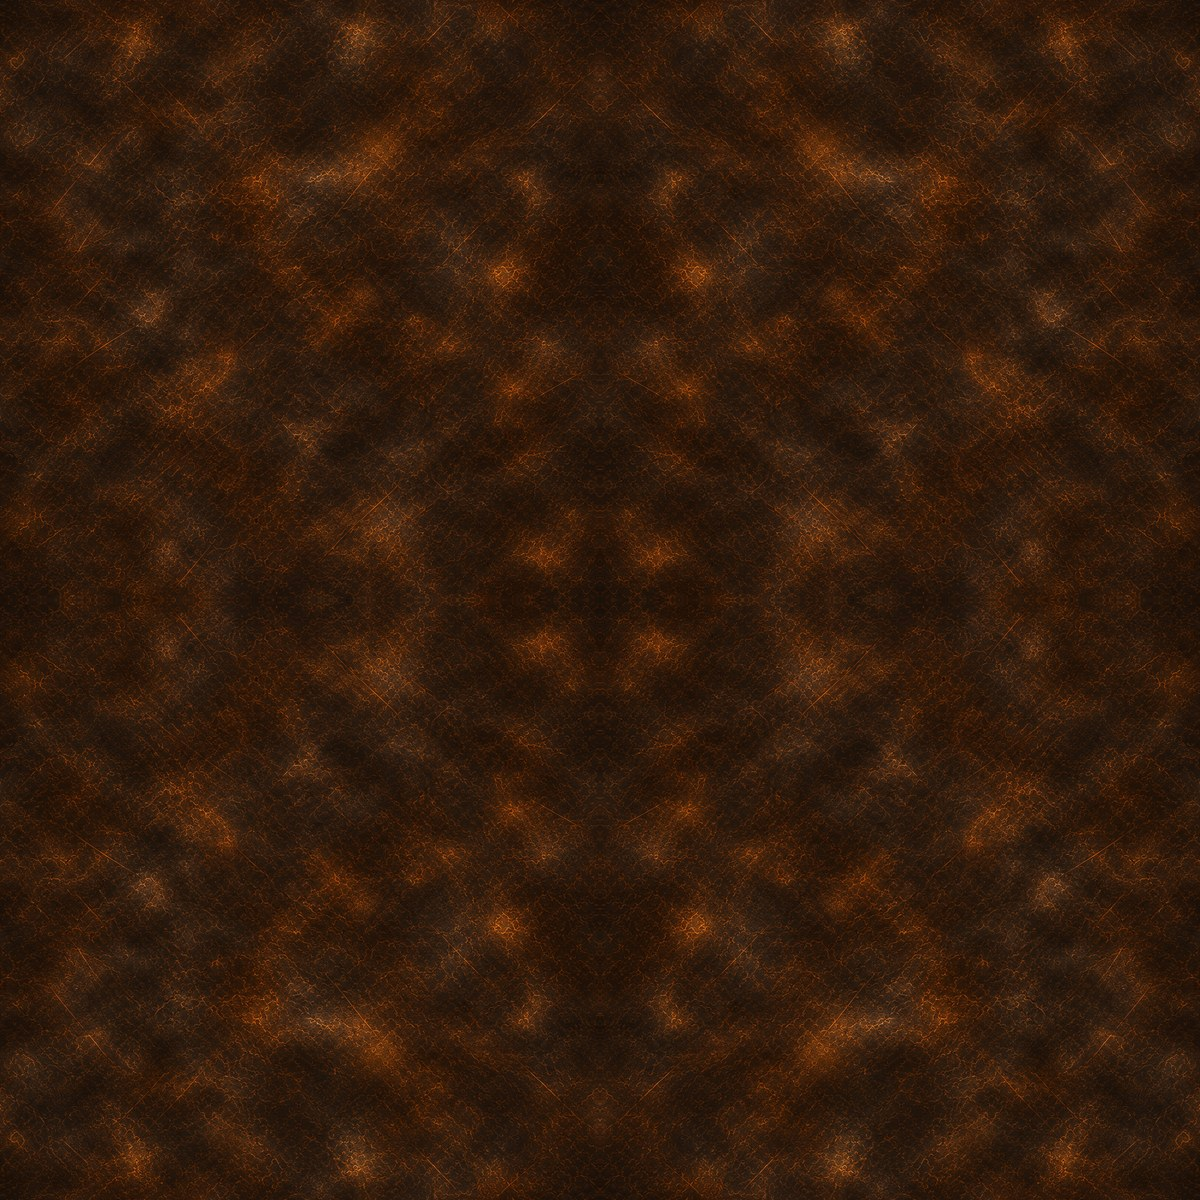
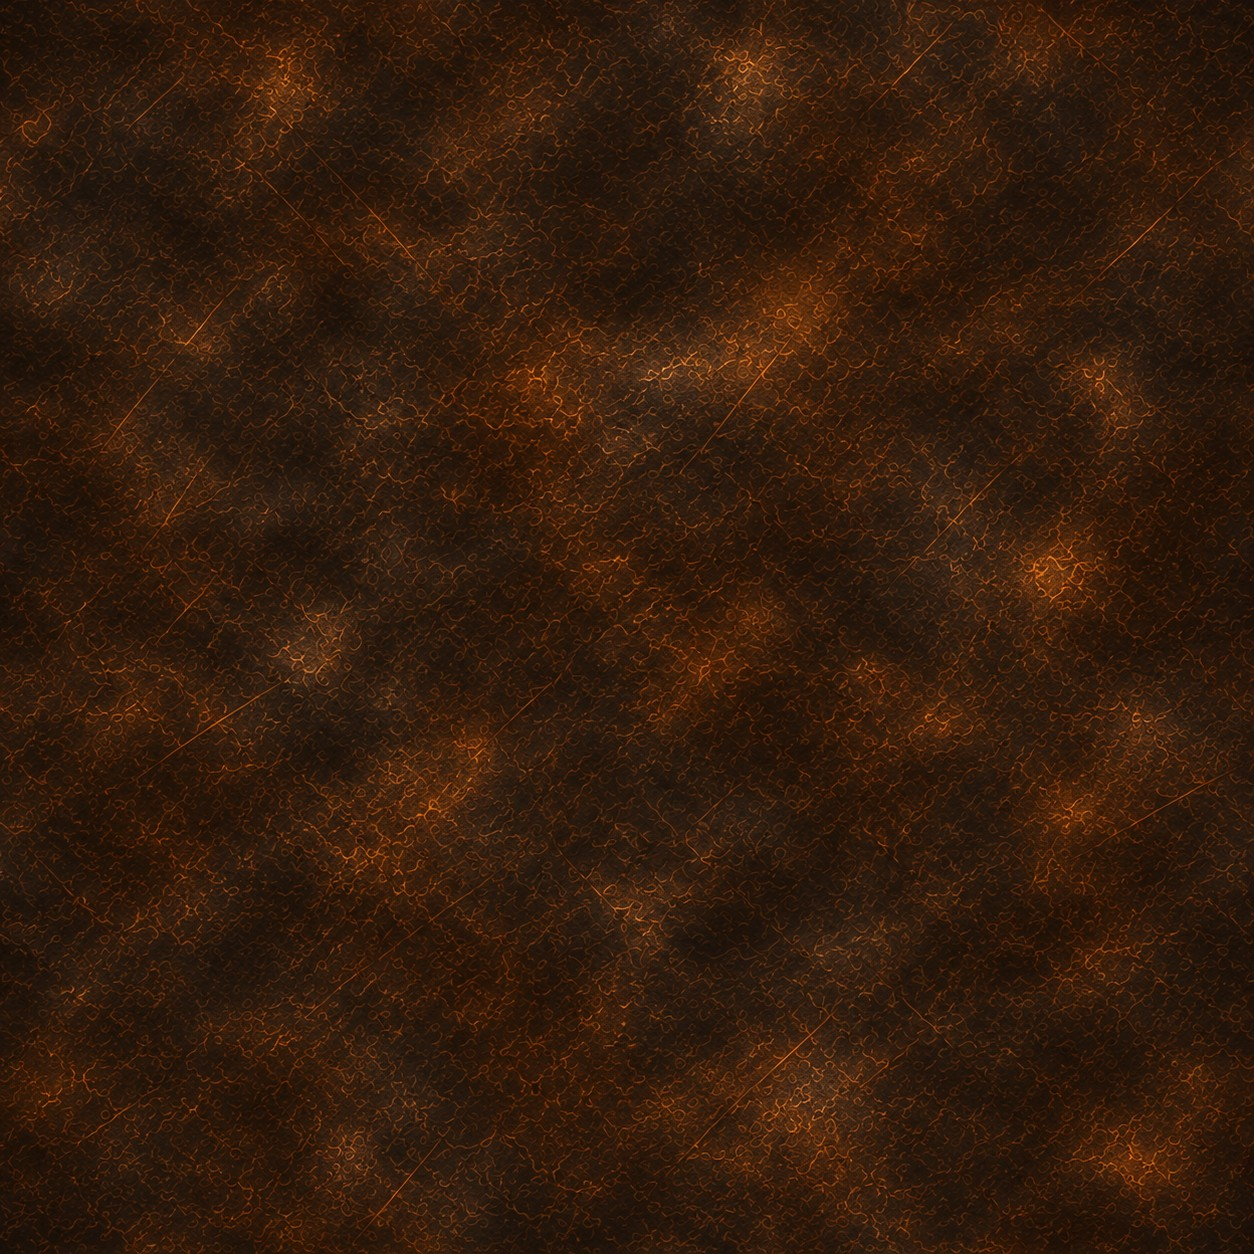
skin: liste levhasi dokusu dogal boyutta, seamless tekrar (kucultme/ayna kaldirildi)

diff --git a/src/preload.js b/src/preload.js
@@ -3260,7 +3260,7 @@ if (isAutotunePage()) {
         ytmusic-two-row-item-renderer:hover { box-shadow: 0 0 16px 3px #ffb34780, 0 0 4px 1px #ffd27acc !important; }
         /* song-list shelves (Quick picks, Trending songs, Covers & remixes, Long listens ...): one steampunk plate per shelf; the small song rows stay unframed */
         ytmusic-carousel-shelf-renderer:not(:has(ytmusic-two-row-item-renderer)), ytmusic-shelf-renderer:not(:has(ytmusic-two-row-item-renderer)), ytmusic-immersive-carousel-shelf-renderer:not(:has(ytmusic-two-row-item-renderer)) { position: relative; box-sizing: border-box !important; width: calc(100% + 28px) !important; max-width: none; margin: 76px auto 24px !important; padding: 12px 20px 16px !important; border: 26px solid transparent !important;
-          border-image: ${T('sk-shelf-body.png')} 120 / 26px stretch !important; background: ${T('sk-listtex.jpg')} 0 0 / 600px 600px repeat !important; transition: box-shadow .15s; }
+          border-image: ${T('sk-shelf-body.png')} 120 / 26px stretch !important; background: ${T('sk-listtex.jpg')} 0 0 / auto auto repeat !important; transition: box-shadow .15s; }
         ytmusic-carousel-shelf-renderer:not(:has(ytmusic-two-row-item-renderer))::before, ytmusic-shelf-renderer:not(:has(ytmusic-two-row-item-renderer))::before, ytmusic-immersive-carousel-shelf-renderer:not(:has(ytmusic-two-row-item-renderer))::before { content: ""; position: absolute; left: -26px; right: -26px; top: -94px; height: 72px; pointer-events: none;
           background: ${T('sk-shelf-bl.png')} left top / calc((100% - 545px) / 2) 100% no-repeat, ${T('sk-shelf-bc.png')} center top / 545px 100% no-repeat, ${T('sk-shelf-br.png')} right top / calc((100% - 545px) / 2) 100% no-repeat; }
         /* the two glass lamps and the gauge light up (5-step flicker) while the mouse is over the shelf */

diff --git a/design/tools/studio_listtex.py b/design/tools/studio_listtex.py
@@ -1,7 +1,5 @@
-# song-list plate fill: mirror-tiled (seamless) rust texture from design/ref/list-texture-ref.png
-from PIL import Image, ImageOps
-im = Image.open('design/ref/list-texture-ref.png').convert('RGB').resize((600, 600), Image.LANCZOS)
-t = Image.new('RGB', (1200, 1200))
-t.paste(im, (0, 0)); t.paste(ImageOps.mirror(im), (600, 0))
-t.paste(ImageOps.flip(im), (0, 600)); t.paste(ImageOps.flip(ImageOps.mirror(im)), (600, 600))
-t.save('design/tex/sk-listtex.jpg', quality=88)
+# song-list plate fill: user's seamless rust texture at native size (no resize/mirroring), CSS repeats it
+from PIL import Image
+im = Image.open('design/ref/list-texture-ref.png').convert('RGB')
+print(im.size)
+im.save('design/tex/sk-listtex.jpg', quality=90)
